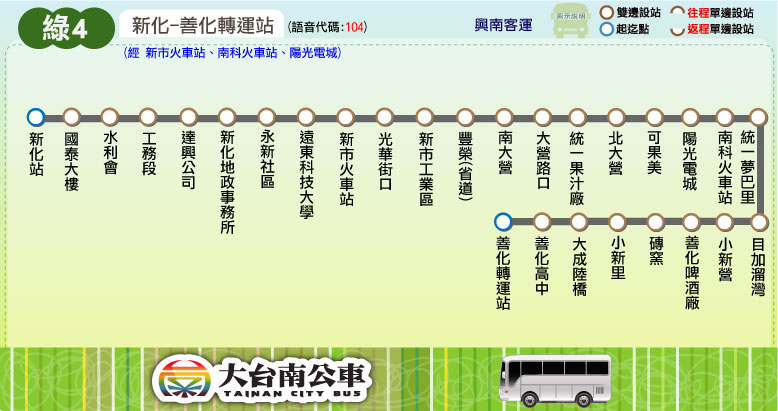
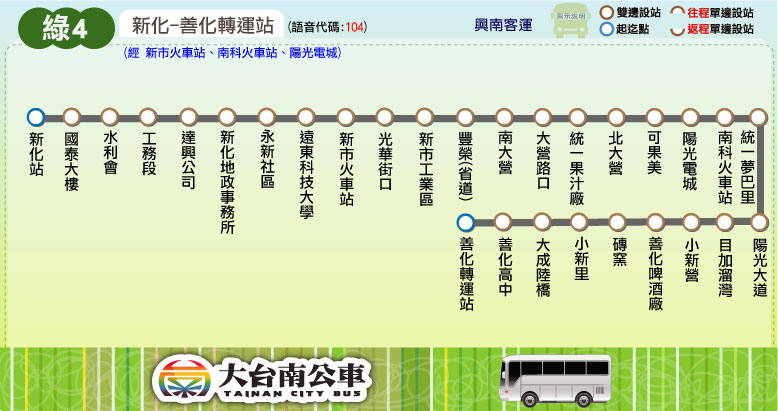
更新時刻表：橘11(西港發06:55改07:10)；新增站點：綠4(增「陽光大道」站位)

Changed region(s): [[0.5861, 0.4964, 0.9871, 0.7591], [0.7095, 0.5255, 0.7712, 0.5547], [0.8021, 0.5255, 0.8329, 0.5547]]

diff --git a/route/fare_and_time/orange_11.js b/route/fare_and_time/orange_11.js
@@ -48,6 +48,6 @@ var AnNan_hospital = 8; // 安南醫院
 orange_11_time_go = [["05:45",start_stop,end_stop],["05:50",[AnNan_hospital]],["06:30",start_stop,end_stop],["06:35",Hsiaying,AnNan_hospital],["08:30",start_stop,end_stop],["09:40",[AnNan_hospital]],
 ["10:40",start_stop,end_stop],["10:50",Hsiaying,AnNan_hospital],["12:30",start_stop,end_stop],["13:45",start_stop,end_stop],["14:50",[AnNan_hospital]],["17:00",start_stop,end_stop],["16:50",Hsiaying,AnNan_hospital],["18:35",start_stop,end_stop],
 ["19:15",start_stop,end_stop],["21:00",start_stop,end_stop],["22:05",start_stop,end_stop]];
-orange_11_time_return = [["06:15",end_stop,start_stop],["06:55",end_stop,start_stop],["08:00",AnNan_hospital,Hsiaying],["09:00",end_stop,start_stop],["08:45",[AnNan_hospital]],["11:15",end_stop,start_stop],
+orange_11_time_return = [["06:15",end_stop,start_stop],["07:10",end_stop,start_stop],["08:00",AnNan_hospital,Hsiaying],["09:00",end_stop,start_stop],["08:45",[AnNan_hospital]],["11:15",end_stop,start_stop],
 ["12:25",AnNan_hospital,Hsiaying],["13:10",end_stop,start_stop],["12:35",[AnNan_hospital]],["14:15",end_stop,start_stop],["17:20",end_stop,start_stop],["17:35",[AnNan_hospital]],["18:45",AnNan_hospital,Hsiaying],["19:45",end_stop,start_stop],
 ["20:40",end_stop,start_stop],["21:40",end_stop,start_stop],["22:40",end_stop,start_stop]];

diff --git a/route/fare_and_time/green_4.js b/route/fare_and_time/green_4.js
@@ -4,7 +4,7 @@ green_4_interval_stop = [
 ["永新社區","遠東科技大學","新市火車站","光華街口","新市工業區"], // 新市火車站
 ["豐榮(省道)","南大營","大營路口","統一果汁廠","北大營"], // 大營路口
 ["可果美"], // 小新營
-["陽光電城","南科火車站","統一夢巴里"], // 陽光電城
+["陽光電城","南科火車站","統一夢巴里","陽光大道"], // 陽光電城
 ["目加溜灣","小新營","善化啤酒廠","磚窯","小新里"], // 小新營
 ["大成陸橋","善化高中","善化轉運站"] // 善化轉運站
 ];
